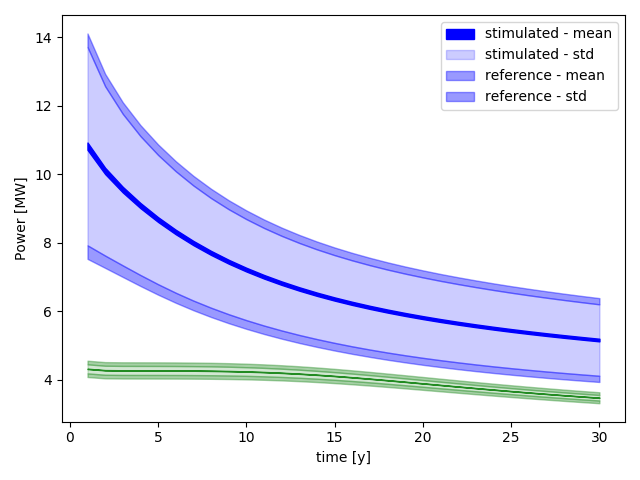
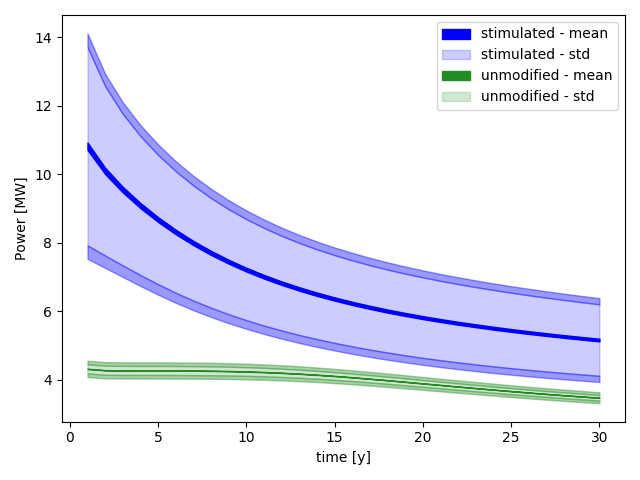
Fix legend

Changed region(s): [[0.6875, 0.0625, 0.9688, 0.2188]]

diff --git a/mlmc_random_frac/mlmc_process.py b/mlmc_random_frac/mlmc_process.py
@@ -192,9 +192,9 @@ class Process(base_process.Process):
         # self.plot_temp_power(mlmc_est, th_02_model_params)
         # self.plot_temp_power(mlmc_est, th_03_model_params)
 
-        self.plot_histogram_const(mlmc_est, 'fr_cs_med', "fr_cs_median", "Median of $\delta_f$ [mm]", bins=30, scale=1000)
-        self.plot_histogram_const(mlmc_est, 'fr_cond_med', "fr_cond_median", "Median of $k_f$ [m.s$^{-1}$]", bins=30, scale=1)
-        self.plot_histogram_flux(mlmc_est, 'bc_flux', "total_flux_histogram", bins=30)
+        #self.plot_histogram_const(mlmc_est, 'fr_cs_med', "fr_cs_median", "Median of $\delta_f$ [mm]", bins=30, scale=1000)
+        #self.plot_histogram_const(mlmc_est, 'fr_cond_med', "fr_cond_median", "Median of $k_f$ [m.s$^{-1}$]", bins=30, scale=1)
+        #self.plot_histogram_flux(mlmc_est, 'bc_flux', "total_flux_histogram", bins=30)
 
         self.plot_histogram(mlmc_est, 'temp', "temp_histogram", "Temperature [$^\circ$C]", bins=30)
         self.plot_histogram(mlmc_est, 'power', "power_histogram", "Power [MW]", bins=30)
@@ -384,7 +384,7 @@ class Process(base_process.Process):
 
 
 
-    def plot_param(self, mlmc_est, ax, X, col, param_name):
+    def plot_param(self, mlmc_est, ax, X, col, param_name, legend):
         """
         Get all result values by given param name, e.g. param_name = "temp" - return all temperatures...
         :param mlmc_est: Estimate instance
@@ -420,13 +420,13 @@ class Process(base_process.Process):
         q_std_err = np.sqrt(q_var + np.sqrt(mom_vars[:, 2] * N / (N-1)))
 
         ax.fill_between(X, q_mean - q_mean_err, q_mean + q_mean_err,
-                         color=col, alpha=1)
+                         color=col, alpha=1, label=legend + " - mean")
         ax.fill_between(X, q_mean - q_std, q_mean + q_std,
-                         color=col, alpha=0.2)
+                         color=col, alpha=0.2, label=legend + " - std")
         ax.fill_between(X, q_mean - q_std_err, q_mean - q_std,
-                         color=col, alpha=0.4)
+                         color=col, alpha=0.4, label = None)
         ax.fill_between(X, q_mean + q_std, q_mean + q_std_err,
-                         color=col, alpha=0.4)
+                         color=col, alpha=0.4, label = None)
 
 
     def result_text(self, mlmc):
@@ -565,10 +565,11 @@ class Process(base_process.Process):
         ax1.set_xlabel('time [y]')
         ax1.set_ylabel('Temperature [$^\circ$C]', color='black')
         ax1.tick_params(axis='y', labelcolor='black')
-        self.plot_param(mlmc_est, ax1, times, 'red', 'temp')
-        self.plot_param(mlmc_est, ax1, times, 'orange', 'temp_ref')
+        self.plot_param(mlmc_est, ax1, times, 'red', 'temp', 'stimulated')
+        self.plot_param(mlmc_est, ax1, times, 'orange', 'temp_ref', 'unmodified')
 
-        ax1.legend(["stimulated - mean", "stimulated - std", "reference - mean", "reference - std"])
+        #ax1.legend(["stimulated - mean", "stimulated - std", "reference - mean", "reference - std"])
+        ax1.legend()
         fig.tight_layout()  # otherwise the right y-label is slightly clipped
         fig.savefig(os.path.join(self.work_dir, "temp_comparison.pdf"))
         fig.savefig(os.path.join(self.work_dir, "temp_comparison.png"))
@@ -588,11 +589,12 @@ class Process(base_process.Process):
         ax1.set_xlabel('time [y]')
         ax1.set_ylabel('Power [MW]', color='black')
         ax1.tick_params(axis='y', labelcolor='black')
-        self.plot_param(mlmc_est, ax1, times, 'blue', 'power')
+        self.plot_param(mlmc_est, ax1, times, 'blue', 'power', 'stimulated')
 
-        self.plot_param(mlmc_est, ax1, times, 'forestgreen', 'power_ref')
+        self.plot_param(mlmc_est, ax1, times, 'forestgreen', 'power_ref', 'unmodified')
 
-        ax1.legend(["stimulated - mean", "stimulated - std", "reference - mean", "reference - std"])
+        #ax1.legend(["stimulated - mean", "stimulated - std", "reference - mean", "reference - std"])
+        ax1.legend()
         fig.tight_layout()  # otherwise the right y-label is slightly clipped
         fig.savefig(os.path.join(self.work_dir, "power_comparison.pdf"))
         fig.savefig(os.path.join(self.work_dir, "power_comparison.png"))
